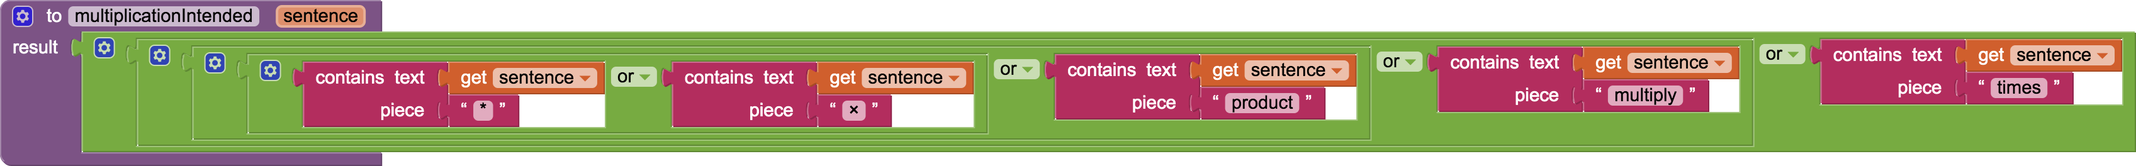
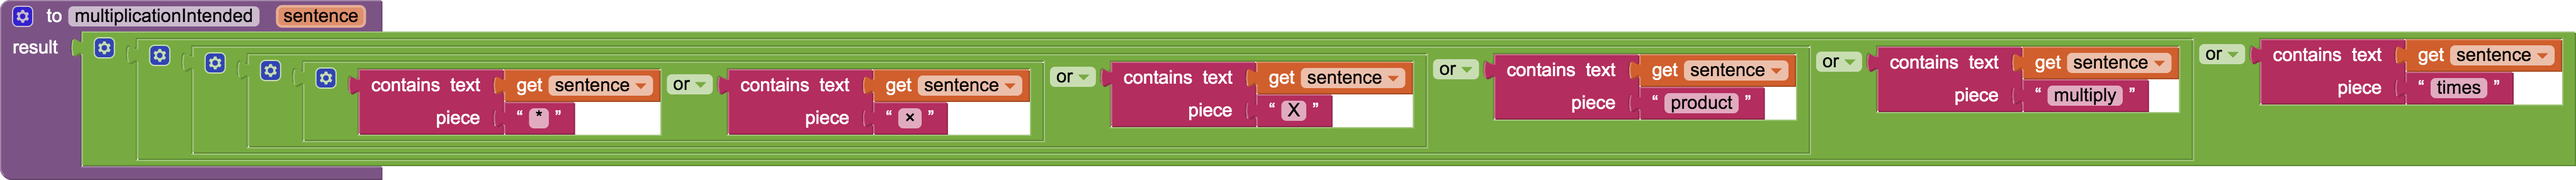
Edits based on last feedback from Karen

diff --git a/yr/tutorials/voicecalculator.md b/yr/tutorials/voicecalculator.md
@@ -58,7 +58,7 @@ Then you  will create  a procedure  called <strong><var>extractNumbers</var></st
 (page 2)
 <ol start="3">
 <li>set the global variable <var>numberList</var> to the empty list.  You need to reinitialize the variable every time you call this procedure as each calculation the user initiates will use a new pair of numbers</li>
-<li>use  the <span class="text"><strong>split at spaces</strong></span> text block to split the input sentence into a list of  its words and for each word in this list check to see if it is a number</li>
+<li>use  the <span class="text"><strong>split at spaces</strong></span> text block to split the input sentence into a list of  its words and <span class="control"><strong>for each word in list</strong></span> check to see if it is a number</li>
 </ol>
 ![for each word ](../images/voiceCalculator/foreach_split.png){:.enlargeImage}
 <ol start="5">
@@ -84,6 +84,7 @@ Then you  will create  a procedure  called <strong><var>extractNumbers</var></st
 As there are many ways for a user to indicate that they would like to perform a multiplication operation, it is essential to identify all these different approaches as a multiplication intent.  For example all of the following statements are different ways of expressing the same multiplication intent: 
 * <span style="color:red">what is</span> <span style="color:green">73\*51</span> <span style="color:red">?</span>
 * <span style="color:red">how much is</span> <span style="color:green">73x51</span><span style="color:red"> ?</span>
+* <span style="color:red">compute </span> <span style="color:green">73X51</span><span style="color:red"> ?</span>
 * <span style="color:red">what is the <span style="color:green">product</span> of</span> <span style="color:green">73</span> <span style="color:red">and</span> <span style="color:green">51</span> <span style="color:red">?</span>
 * <span style="color:red">what is the result when you</span> <span style="color:green">multiply 73</span> <span style="color:red">with</span> <span style="color:green">51</span> <span style="color:red">?</span>
 * <span style="color:red">what is</span> <span style="color:green">73 times 51</span> <span style="color:red">?</span>
@@ -112,10 +113,11 @@ First, you will create a Boolean procedure called <strong><var>multiplicationInt
 <ol start="3">
 <li>if any of the following symbols/words are contained in the sentence, have the procedure return <strong>true</strong> or return <strong>false</strong> otherwise: <br /><br />
 
-   { * , x , product, multiply, times } <br /><br />
+   { * , x , X , product, multiply, times } <br /><br />
    
 </li>
 </ol>
+Note: For consistency both the small letter "x" and the capital "X" have been included here.  It is possible that your device will use either to indicate multiplication.
 
 <hint markdown="block" title="Give me a hint">
 
@@ -136,7 +138,7 @@ You can keep nesting as many <span class="logic"><strong>or</strong></span> bloc
 
 ![procedure multiplicationIntended solution](../images/voiceCalculator/procedure_multiplicationIntended.png){:.enlargeImage}
 
-Note: For brevity only the small letter "x" has been included here.  It is possible that your device will use the capital "X" to indicate multiplication.
+
 </hint>
 
 </hint>
@@ -257,7 +259,7 @@ Using the settings gear you can access the following version of the <span class=
 </hint>
 </hint>
 
-Try this on your own but if you get stuck you can click the Solution button.
+Try this on your own but if you get stuck you can click the Hint button.
 
 ## Test Your App again
 Congratulations, you have built your first voice driven AI system.  Test it thoroughly to make sure that your Voice Calculator can correctly respond to a variety of different utterances for each operation intended.
